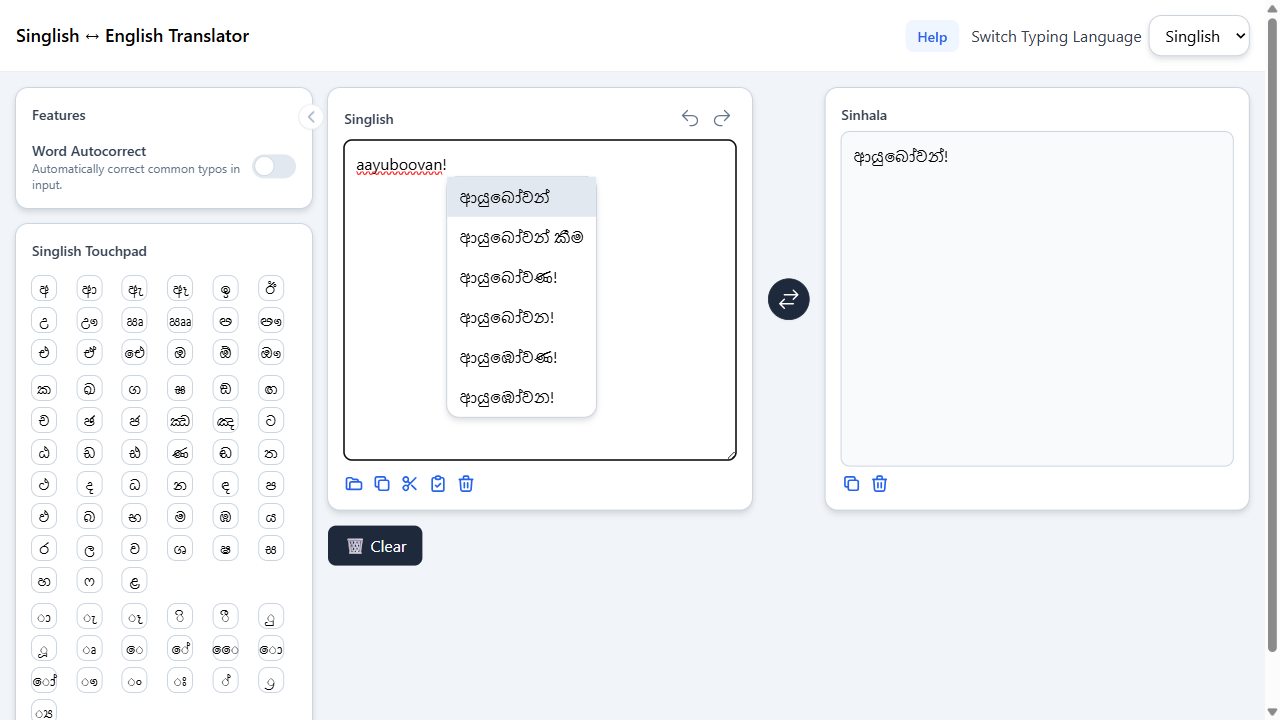
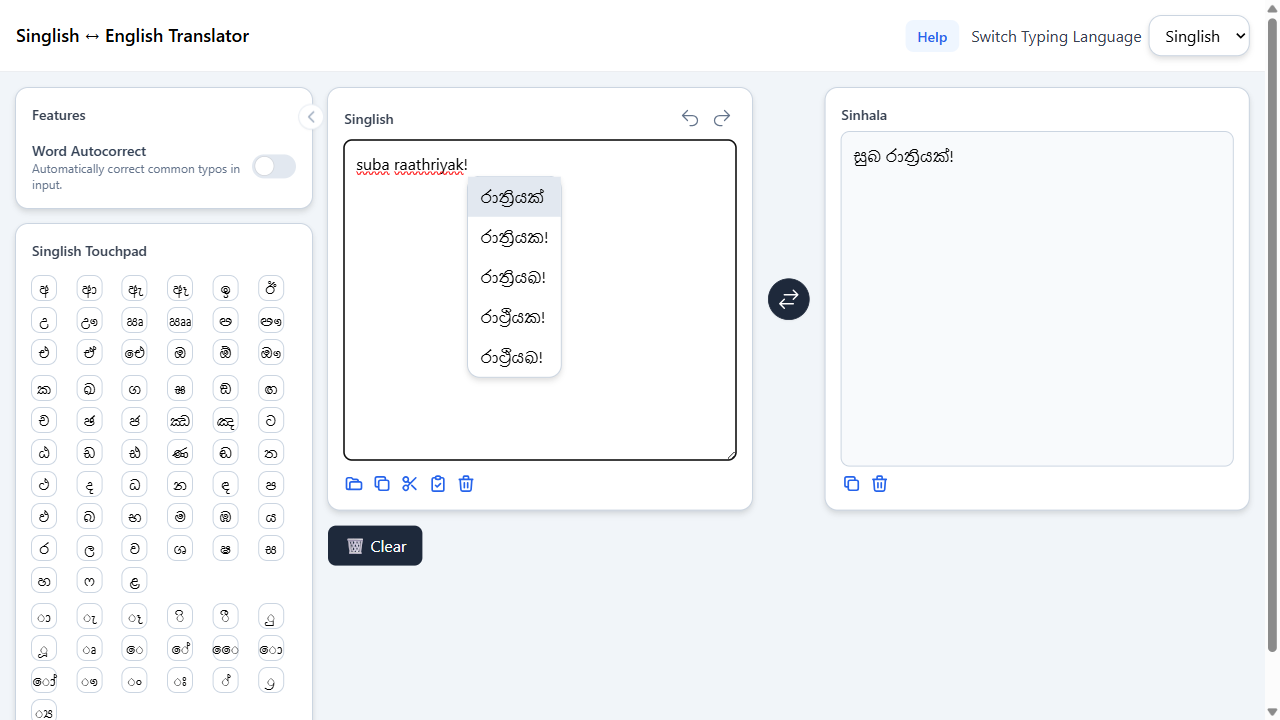
asd

diff --git a/tests/positive.spec.js b/tests/positive.spec.js
@@ -4,46 +4,46 @@ const positiveScenarios = [
   { 
     id: 'Pos_Fun_0001', 
     name: 'Simple Greeting Question', 
-    input: 'oyaata kohomadha?', 
-    expected: 'ඔයාට කොහොමද?' 
+    input: 'oyaa office ekata yanne koomadha?', 
+    expected: 'ඔයා office එකට යන්නෙ කෝමද?' 
   },
   { 
     id: 'Pos_Fun_0002', 
     name: 'Simple Statement', 
-    input: 'mama gedhara yanavaa.', 
-    expected: 'මම ගෙදර යනවා.' 
+    input: 'mama bank ekata yanavaa.', 
+    expected: 'මම bank එකට යනවා.' 
   },
   { 
     id: 'Pos_Fun_0003', 
     name: 'Simple Need Expression', 
-    input: 'mata bath oonee.', 
-    expected: 'මට බත් ඕනේ.' 
+    input: 'mata tea ekak oona.', 
+    expected: 'මට tea එකක් ඕන.' 
   },
   
   { 
     id: 'Pos_Fun_0004', 
-    name: 'Compound Sentence with But', 
-    input: 'mama gedhara yanavaa, haebaeyi vahina nisaa dhaen yannee naehae.', 
-    expected: 'මම ගෙදර යනවා, හැබැයි වහින නිසා දැන් යන්නේ නැහැ.' 
+    name: 'Compound Sentence', 
+    input: 'mama gedhara yanavaa, haebaeyi project eka nisaa dhaen yannee naehae.', 
+    expected: 'මම ගෙදර යනවා, හැබැයි project එක නිසා දැන් යන්නේ නැහැ.' 
   },
   { 
     id: 'Pos_Fun_0005', 
-    name: 'Compound Sentence with And', 
-    input: 'api kaeema kanna yanavaa saha passee chithrapatayakuth balanavaa.', 
-    expected: 'අපි කෑම කන්න යනවා සහ පස්සේ චිත්රපටයකුත් බලනවා.' 
+    name: 'Compound Sentence', 
+    input: 'api kaeema kanna yanavaa saha passee cinema ekuth balanavaa.', 
+    expected: 'අපි කෑම කන්න යනවා සහ පස්සේ cinema එකුත් බලනවා.' 
   },
   
   { 
     id: 'Pos_Fun_0006', 
     name: 'Simple Question', 
-    input: 'oyaata kohomadha?', 
-    expected: 'ඔයාට කොහොමද?' 
+    input: 'mata help karanna puLuvandha?', 
+    expected: 'මට help කරන්න පුළුවන්ද?' 
   },
   { 
     id: 'Pos_Fun_0007', 
     name: 'Planning Question', 
-    input: 'oyaa kavadhaa enna hithan innee?', 
-    expected: 'ඔයා කවදා එන්න හිතන් ඉන්නේ?' 
+    input: 'oyaa weekend vala kohedha yanne?', 
+    expected: 'ඔයා weekend වල කොහෙද යන්නෙ?' 
   },
   { 
     id: 'Pos_Fun_0008', 
@@ -55,106 +55,106 @@ const positiveScenarios = [
   { 
     id: 'Pos_Fun_0009', 
     name: 'Urgent Command', 
-    input: 'vahaama enna.', 
-    expected: 'වහාම එන්න.' 
+    input: 'vahaama call karanna.', 
+    expected: 'වහාම call කරන්න.' 
   },
   { 
     id: 'Pos_Fun_0010', 
     name: 'Direction Command', 
-    input: 'issarahata yanna.', 
-    expected: 'ඉස්සරහට යන්න.' 
+    input: 'bank ekata yanna.', 
+    expected: 'bank එකට යන්න.' 
   },
   
   { 
     id: 'Pos_Fun_0011', 
     name: 'Positive Statement', 
-    input: 'mama ehema karanavaa.', 
-    expected: 'මම එහෙම කරනවා.' 
+    input: 'mata rasata uyanna puluvan.', 
+    expected: 'මට රසට උයන්න පුලුවන්.' 
   },
   { 
     id: 'Pos_Fun_0012', 
     name: 'Negative Statement', 
-    input: 'mama ehema karannee naehae.', 
-    expected: 'මම එහෙම කරන්නේ නැහැ.' 
+    input: 'mata uyanna baee', 
+    expected: 'මට උයන්න බෑ' 
   },
   
   { 
     id: 'Pos_Fun_0013', 
     name: 'Formal Greeting', 
-    input: 'aayuboovan!', 
-    expected: 'ආයුබෝවන්!' 
+    input: 'suba raathriyak!', 
+    expected: 'සුබ රාත්රියක්!' 
   },
   { 
     id: 'Pos_Fun_0014', 
     name: 'Morning Greeting', 
-    input: 'suBha udhaeesanak!', 
-    expected: 'සුභ උදෑසනක්!' 
+    input: 'suba udhaeesanak!', 
+    expected: 'සුබ උදෑසනක්!' 
   },
   
   { 
     id: 'Pos_Fun_0015', 
     name: 'Help Request', 
-    input: 'mata udhavvak karanna puLuvandha?', 
-    expected: 'මට උදව්වක් කරන්න පුළුවන්ද?' 
+    input: 'mata udhav karanna puLuvandha?', 
+    expected: 'මට උදව් කරන්න පුළුවන්ද?' 
   },
   
   { 
     id: 'Pos_Fun_0016', 
     name: 'Past Tense', 
-    input: 'mama iiyee gedhara giyaa.', 
-    expected: 'මම ඊයේ ගෙදර ගියා.' 
+    input: 'mama iiyee market ekata giyaa.', 
+    expected: 'මම ඊයේ market එකට ගියා.' 
   },
   { 
     id: 'Pos_Fun_0017', 
     name: 'Present Tense', 
-    input: 'mama dhaen vaeda karanavaa.', 
-    expected: 'මම දැන් වැඩ කරනවා.' 
+    input: 'mama dhaen computer eka hadhanavaa.', 
+    expected: 'මම දැන් computer එක හදනවා.' 
   },
   { 
     id: 'Pos_Fun_0018', 
     name: 'Future Tense', 
-    input: 'mama heta enavaa.', 
-    expected: 'මම හෙට එනවා.' 
+    input: 'mama heta university yanavaa.', 
+    expected: 'මම හෙට university යනවා.' 
   },
   
   { 
     id: 'Pos_Fun_0019', 
     name: 'Singular Pronoun', 
-    input: 'mama yanna hadhannee.', 
-    expected: 'මම යන්න හදන්නේ.' 
+    input: 'mama class ekak patan ganna yanne.', 
+    expected: 'මම class එකක් පටන් ගන්න යන්නෙ.' 
   },
   { 
     id: 'Pos_Fun_0020', 
     name: 'Plural Pronoun', 
-    input: 'api yamu.', 
-    expected: 'අපි යමු.' 
+    input: 'api movie ekak balanna yamu.', 
+    expected: 'අපි movie එකක් බලන්න යමු.' 
   },
   
   { 
     id: 'Pos_Fun_0021', 
     name: 'With English Brand', 
-    input: 'Zoom link eka email karanna', 
-    expected: 'Zoom link එක email කරන්න' 
+    input: 'mata WhatsApp message ekak evanna', 
+    expected: 'මට WhatsApp message එකක් එවන්න' 
   },
   { 
     id: 'Pos_Fun_0022', 
     name: 'With Date', 
-    input: 'dhesaembar 25', 
-    expected: 'දෙසැම්බර් 25' 
+    input: 'february 15', 
+    expected: 'february 15' 
   },
   
   { 
     id: 'Pos_Fun_0023', 
     name: 'With Currency', 
-    input: 'ru.5343', 
-    expected: 'රු.5343' 
+    input: 'ru.2500', 
+    expected: 'රු.2500' 
   },
   
   { 
     id: 'Pos_Fun_0024', 
     name: 'Informal Slang', 
-    input: 'ela machan! supiri!!', 
-    expected: 'එල මචන්! සුපිරි!!' 
+    input: 'hari boss! hari!', 
+    expected: 'හරි boss! හරි!' 
   }
 ];
 
